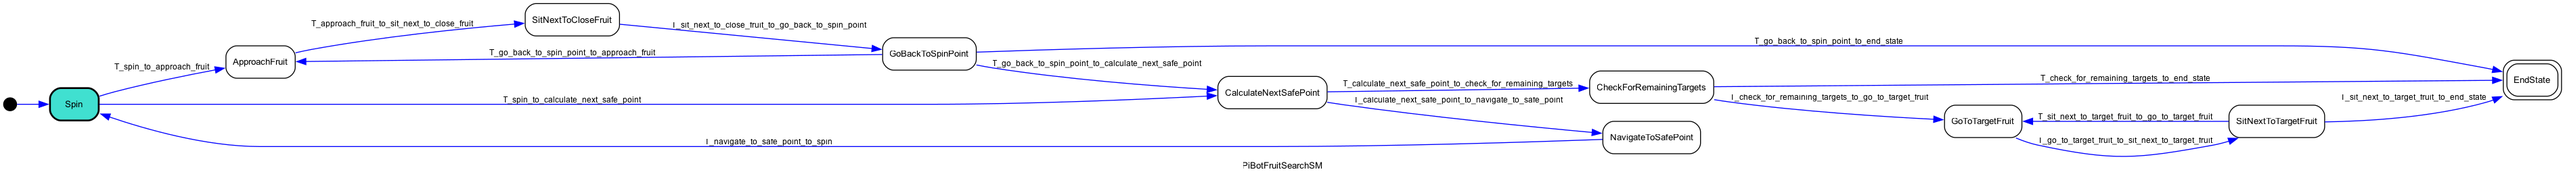
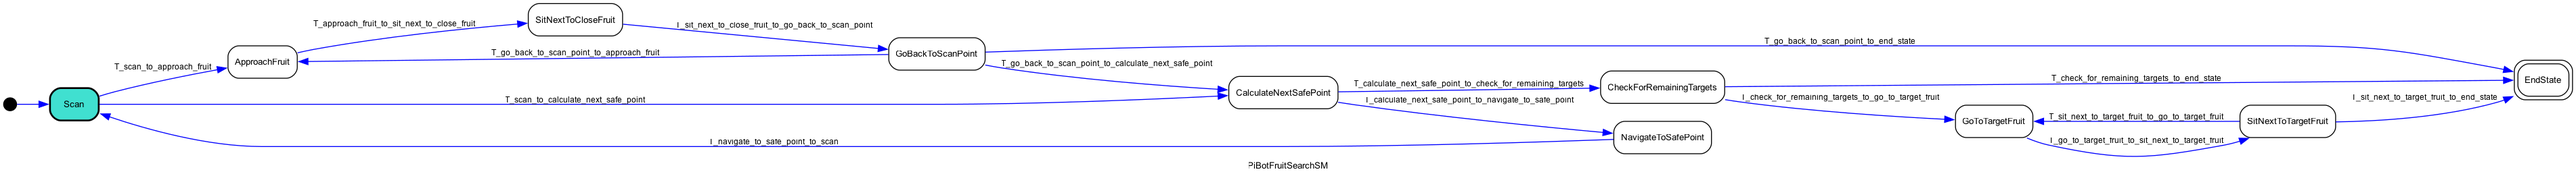
Basic State Machine runner working

diff --git a/Milestone3/runtime/runner.py b/Milestone3/runtime/runner.py
@@ -1,5 +1,6 @@
 import threading
 import time
+import logging
 from typing import Optional, Tuple, List
 
 from navigation.controller import ControllerManager
@@ -7,6 +8,10 @@ from planning.astar import AStarPlanner
 from planning.grid_map import GridMap
 from .world_model import WorldModel
 from .robot_commander import RobotCommander
+from state_machine.state_machine import PiBotFruitSearchSM
+from pibot_actions import PiBotActions
+
+log = logging.getLogger(__name__)
 
 
 class Runner(threading.Thread):
@@ -22,8 +27,13 @@ class Runner(threading.Thread):
                  intents_q,
                  controller_kind: str = "ttg",
                  hz: float = 10.0,
-                 drive_enabled: bool = True):
-        super().__init__(daemon=True)
+                 drive_enabled: bool = True,
+                 state_machine: PiBotFruitSearchSM = None,
+                 actions: PiBotActions=None,
+                 detector=None,
+                 fruit_ranger=None,
+                 target_dims=None):
+        super().__init__(daemon=True, name="Runner")
         self.cmd = commander
         self.ekf = ekf
         self.aruco = aruco_det
@@ -35,13 +45,18 @@ class Runner(threading.Thread):
         self.ctrl = ControllerManager(controller_kind)
         self._stop = threading.Event()
         self._drive_enabled = bool(drive_enabled)
+        self.sm = state_machine
+        self.actions = actions
+        self.detector = detector
+        self.fruit_ranger = fruit_ranger
+        self.target_dims = target_dims
         self._goal: Optional[Tuple[float, float]] = None
         self._plan_waypoints: List[Tuple[float, float]] = []
         self._wp_idx: int = 0
         self._period = 1.0 / max(1.0, float(hz))
 
         # modes: 'IDLE' | 'MANUAL_WAYPOINTS' | 'AUTO'
-        self.mode = 'IDLE'
+        self.mode = 'AUTO' if self.sm is not None else 'IDLE'
 
     def stop(self):
         self._stop.set()
@@ -77,16 +92,19 @@ class Runner(threading.Thread):
         pose = self.get_pose_fn()
         if self._goal is None:
             return
+        log.info("Planning to goal (%.2f, %.2f)", self._goal[0], self._goal[1])
         pr = self.planner.plan(self.grid, (pose[0], pose[1]), self._goal)
         if pr is None:
             self._plan_waypoints = []
             self.world.clear_plan()
             self.world.set_status(action='plan_failed')
+            log.warning("Plan failed to goal (%.2f, %.2f)", self._goal[0], self._goal[1])
             return
         self._plan_waypoints = list(pr.pruned_world if pr.pruned_world else pr.path_world)
         self._wp_idx = 0
         self.world.set_plan(self._plan_waypoints, active_idx=self._wp_idx)
         self.world.set_status(action='drive', progress=f"0/{len(self._plan_waypoints)}")
+        log.info("Plan OK: %d waypoints (pruned=%s)", len(self._plan_waypoints), "yes" if pr.pruned_world else "no")
 
     def _drive_step(self, pose):
         if not self._plan_waypoints:
@@ -99,17 +117,97 @@ class Runner(threading.Thread):
         else:
             # Reflect disabled driving in status; no velocity command sent
             self.world.set_status(action='drive_disabled')
+        log.debug("drive_step: wp_idx=%d/%d cmd=(%d,%d) ticks=(%d,%d)", self._wp_idx, max(0, len(self._plan_waypoints)-1), fwd_cmd, turn_cmd, fwd_tick, turn_tick)
         if done:
             if self._wp_idx < len(self._plan_waypoints) - 1:
                 self._wp_idx += 1
                 self.world.set_plan(self._plan_waypoints, active_idx=self._wp_idx)
                 self.world.set_status(progress=f"{self._wp_idx}/{len(self._plan_waypoints)-1}")
+                log.debug("Reached waypoint; advancing to %d", self._wp_idx)
             else:
                 self.cmd.stop()
                 self.world.set_status(action='arrived')
                 self._plan_waypoints = []
                 self.world.clear_plan()
-                self.mode = 'IDLE'
+                # Only drop to IDLE if in manual mode; in AUTO, let SM decide next step
+                if self.mode == 'MANUAL_WAYPOINTS':
+                    self.mode = 'IDLE'
+                log.info("Arrived at goal.")
+
+    # ---------------- AUTO (SM-driven) ----------------
+    def _auto_step(self, pose):
+        if self.sm is None:
+            return
+        try:
+            sm_state = self.sm.current_state.id.lower()
+            log.debug("SM state: %s", sm_state)
+        except Exception:
+            sm_state = 'scan'
+        
+        # EXECUTES IN STATE "Scan"
+        if sm_state == 'scan':
+            # Call PiBotActions.scan if allowed; otherwise simulate dwell
+            self.world.set_status(mode='AUTO', sm_state='scan', action='scan')
+            log.info("SM: Scan → scan action")
+            if self.actions is not None and self._drive_enabled:
+                try:
+                    # conservative scan parameters; pass detector/ranger/target_dims if available
+                    self.actions.scan(
+                        step_angle_deg=20.0,
+                        detector=self.detector,
+                        fruit_ranger=self.fruit_ranger,
+                        target_dims=self.target_dims,
+                        get_pose_fn=self.get_pose_fn,
+                        turning_tick=25,
+                        pause_s=0.3,
+                    )
+                    # Publish detections (clustered) to world model if available
+                    try:
+                        dets = getattr(self.actions, 'current_obj_positions', []) or []
+                        self.world.set_detections(dets)
+                        log.info("Scan complete: %d clustered objects", len(dets))
+                    except Exception:
+                        pass
+                except Exception:
+                    pass
+            else:
+                log.info("Scan disabled (drive off). Sleeping for 0.5 seconds")
+                time.sleep(0.5)
+            # Transition to next state
+            try:
+                self.sm.T_scan_to_calculate_next_safe_point()
+            except Exception:
+                pass
+        
+        # EXECUTES IN STATE "CalculateNextSafePoint"
+        elif sm_state == 'calculate_next_safe_point':
+            # Placeholder: choose (1,0)
+            self.world.set_status(mode='AUTO', sm_state='calculate_next_safe_point', action='choose_safe_point')
+            log.info("SM: CalculateNextSafePoint → planning to (1.2, 1.1)")
+            self._goal = (1.2, 1.1)
+            # plan now from current pose
+            self._plan_from_current()
+            try:
+                self.sm.T_calculate_next_safe_point_to_navigate_to_safe_point()
+            except Exception:
+                pass
+        
+        # EXECUTES IN STATE "NavigateToSafePoint"
+        elif sm_state == 'navigate_to_safe_point':
+            self.world.set_status(mode='AUTO', sm_state='navigate_to_safe_point', action='begin_drive')
+            # If we have a plan, drive a step; otherwise consider arrival
+            if self._plan_waypoints:
+                self._drive_step(pose)
+            else:
+                # arrived or cannot plan; go back to spin
+                log.info("SM: NavigateToSafePoint → Scan")
+                try:
+                    self.sm.T_navigate_to_safe_point_to_scan()
+                except Exception:
+                    pass
+        else:
+            # Other states not yet implemented
+            self.world.set_status(mode='AUTO', sm_state=sm_state, action='idle')
 
     def run(self):
         while not self._stop.is_set():
@@ -120,8 +218,11 @@ class Runner(threading.Thread):
             pose = self.get_pose_fn()
             self.world.set_pose(pose)
             # 3) control
-            if self.mode == 'MANUAL_WAYPOINTS' and self._plan_waypoints:
-                self._drive_step(pose)
+            if self.mode == 'MANUAL_WAYPOINTS':
+                if self._plan_waypoints:
+                    self._drive_step(pose)
+            elif self.mode == 'AUTO':
+                self._auto_step(pose)
             # 4) sleep remainder
             dt = time.time() - t0
             if dt < self._period:

diff --git a/Milestone3/state_machine/state_machine.py b/Milestone3/state_machine/state_machine.py
@@ -4,10 +4,10 @@ from statemachine.contrib.diagram import DotGraphMachine
 class PiBotFruitSearchSM(StateMachine):
     ## ALL STATES
     # Mapping states
-    spin = State("Spin", initial=True)
+    scan = State("Scan", initial=True)
     approach_fruit = State("ApproachFruit")
     sit_next_to_close_fruit = State("SitNextToCloseFruit")
-    go_back_to_spin_point = State("GoBackToSpinPoint")
+    go_back_to_scan_point = State("GoBackToScanPoint")
     calculate_next_safe_point = State("CalculateNextSafePoint")
     navigate_to_safe_point = State("NavigateToSafePoint")
 
@@ -19,17 +19,17 @@ class PiBotFruitSearchSM(StateMachine):
     end_state = State("EndState", final=True)
 
     ## Transitions
-    T_spin_to_approach_fruit = spin.to(approach_fruit)
+    T_scan_to_approach_fruit = scan.to(approach_fruit)
     # Approach fruit loop
     T_approach_fruit_to_sit_next_to_close_fruit = approach_fruit.to(sit_next_to_close_fruit)
-    T_sit_next_to_close_fruit_to_go_back_to_spin_point = sit_next_to_close_fruit.to(go_back_to_spin_point)
-    T_go_back_to_spin_point_to_approach_fruit = go_back_to_spin_point.to(approach_fruit)
+    T_sit_next_to_close_fruit_to_go_back_to_scan_point = sit_next_to_close_fruit.to(go_back_to_scan_point)
+    T_go_back_to_scan_point_to_approach_fruit = go_back_to_scan_point.to(approach_fruit)
 
-    T_spin_to_calculate_next_safe_point = spin.to(calculate_next_safe_point)
-    T_go_back_to_spin_point_to_calculate_next_safe_point = go_back_to_spin_point.to(calculate_next_safe_point)
+    T_scan_to_calculate_next_safe_point = scan.to(calculate_next_safe_point)
+    T_go_back_to_scan_point_to_calculate_next_safe_point = go_back_to_scan_point.to(calculate_next_safe_point)
     T_calculate_next_safe_point_to_navigate_to_safe_point = calculate_next_safe_point.to(navigate_to_safe_point)
 
-    T_navigate_to_safe_point_to_spin = navigate_to_safe_point.to(spin)
+    T_navigate_to_safe_point_to_scan = navigate_to_safe_point.to(scan)
 
     # Final run states transitions
     T_calculate_next_safe_point_to_check_for_remaining_targets = calculate_next_safe_point.to(check_for_remaining_targets)
@@ -38,7 +38,7 @@ class PiBotFruitSearchSM(StateMachine):
     T_sit_next_to_target_fruit_to_go_to_target_fruit = sit_next_to_target_fruit.to(go_to_target_fruit)
     
     # Termination transitions
-    T_go_back_to_spin_point_to_end_state = go_back_to_spin_point.to(end_state)
+    T_go_back_to_scan_point_to_end_state = go_back_to_scan_point.to(end_state)
     T_check_for_remaining_targets_to_end_state = check_for_remaining_targets.to(end_state)
     T_sit_next_to_target_fruit_to_end_state = sit_next_to_target_fruit.to(end_state)
 

diff --git a/Milestone3/auto_fruit_search.py b/Milestone3/auto_fruit_search.py
@@ -523,7 +523,7 @@ def _configure_logging(level: str):
             root.removeHandler(h)
 
     root.setLevel(getattr(logging, (level or 'INFO').upper(), logging.INFO))
-    fmt = '[%(levelname)s] %(name)s: %(message)s'
+    fmt = '[%(levelname)s] [%(threadName)s] %(name)s: %(message)s'
     handler = logging.StreamHandler()
     handler.setFormatter(_ColoredFormatter(fmt, use_color=use_color))
     root.addHandler(handler)
@@ -648,13 +648,15 @@ def main():
     stateMachineInstance = _init_state_machine()
     _ = _load_target_fruits_dict("ECE4078_Project/Milestone3/M3_prac_shopping_list.txt")
 
-    # 9) Runtime wiring: WorldModel, Runner, GUI
+    # 9) Runtime wiring: WorldModel, Runner, (optional) SMRunner, GUI
     from queue import Queue
     world = WorldModel()
     intents_q: Queue = Queue()
     commander = RobotCommander(penguinpiInstance)
 
     # Runner pose function is same EKF-based callback
+    from pibot_actions import PiBotActions
+    actions = PiBotActions(penguinpiInstance, calib_dir=args.calib_dir)
     runner = Runner(commander=commander,
                     ekf=ekfInstance,
                     aruco_det=aruco_det,
@@ -665,7 +667,12 @@ def main():
                     intents_q=intents_q,
                     controller_kind=args.controller,
                     hz=10.0,
-                    drive_enabled=not (args.no_run or args.ip == 'localhost'))
+                    drive_enabled=not (args.no_run or args.ip == 'localhost'),
+                    state_machine=stateMachineInstance,
+                    actions=actions,
+                    detector=yoloDetectorInstance,
+                    fruit_ranger=fruitRangerInstance,
+                    target_dims=target_dims_Dict)
     runner.start()
 
     # Providers for GUI (display-only)

diff --git a/Milestone3/pibot_actions.py b/Milestone3/pibot_actions.py
@@ -59,12 +59,12 @@ class PiBotActions:
 
     def scan(self,
              step_angle_deg: float,
+             detector: Detector,
+             fruit_ranger: FruitRanger,
+             target_dims: Dict[str, Tuple[float, float, float]],
+             get_pose_fn: Callable[[], List[float]],
              turning_tick: int = 25,
              pause_s: float = 1.0,
-             detector: Optional[Detector] = None,
-             fruit_ranger: Optional[FruitRanger] = None,
-             target_dims: Optional[Dict[str, Tuple[float, float, float]]] = None,
-             get_pose_fn: Optional[Callable[[], List[float]]] = None,
              edge_margin_frac: float = 0.05) -> None:
         """Rotate on the spot in increments until a full 360° scan is done.
 
@@ -72,6 +72,11 @@ class PiBotActions:
         - turning_tick: tick value used for turning (affects speed).
         - pause_s: pause between steps to allow sensing.
         """
+        # Validate we have values for all parameters
+        if not all([detector, fruit_ranger, target_dims, get_pose_fn]):
+            log.error("scan: missing required parameters.")
+            return
+
         # ------------------------------
         # 1) Normalize inputs and guards
         # ------------------------------
